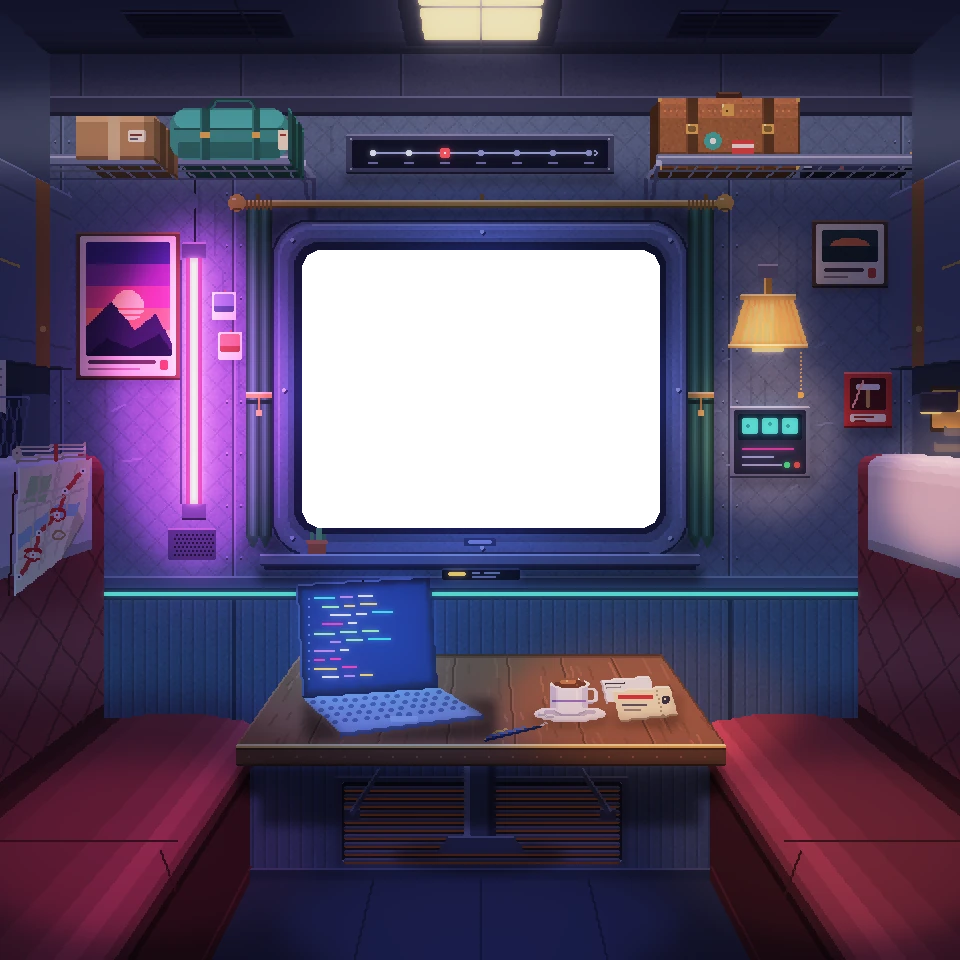
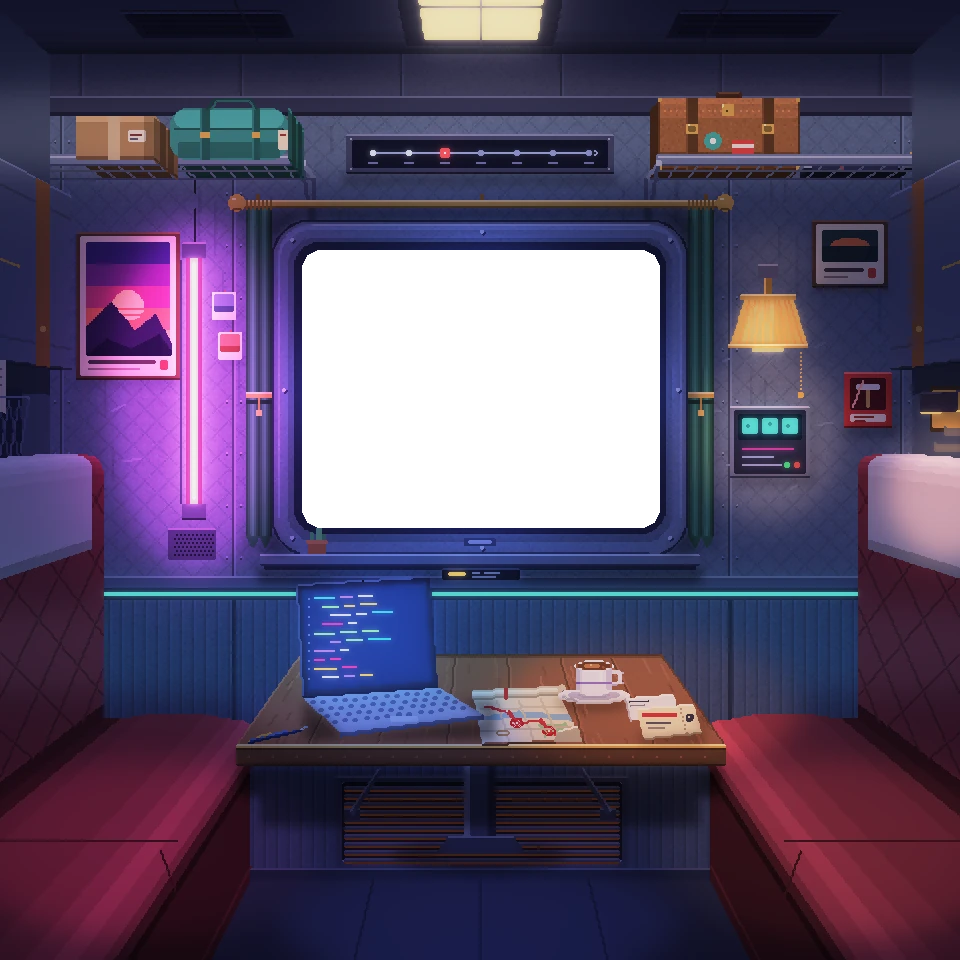
art(2.2): lay the map half open on the table, the rest still rolled
The far half stays rolled into a tube along the back edge and the near corner curls up. The cup moves to the back right and the pen to the left of the laptop, so the map's sprite stays clean.

Changed region(s): [[0.4688, 0.6875, 0.75, 0.7812], [0.0, 0.4375, 0.0938, 0.625], [0.25, 0.75, 0.3125, 0.7812]]

diff --git a/src/scene/geometry.gen.ts b/src/scene/geometry.gen.ts
@@ -30,7 +30,7 @@ export const CAMERA = { x: 240, y: 209.808 };
 export const OBJECTS: Record<string, ObjectGeometry> = {
   cover: { zone: [142, 116, 338, 272], light: { x: 240, y: 194, rx: 108, ry: 84 } },
   projects: { zone: [137, 279, 252, 376], light: { x: 195, y: 328, rx: 62, ry: 52 }, box: { x: 148, y: 288, w: 94, h: 81 }, sprite: '/assets/obj-projects.webp' },
-  about: { zone: [296, 335, 348, 369], light: { x: 322, y: 352, rx: 30, ry: 20 }, box: { x: 300, y: 338, w: 39, h: 23 }, sprite: '/assets/obj-about.webp' },
+  about: { zone: [308, 344, 360, 378], light: { x: 334, y: 361, rx: 30, ry: 20 }, box: { x: 312, y: 347, w: 39, h: 23 }, sprite: '/assets/obj-about.webp' },
   stack: { zone: [318.7565, 36.95, 409.9482, 92.9085], light: { x: 364.3523, y: 67.0018, rx: 49.7409, ry: 29.0155 }, box: { x: 325, y: 46, w: 75, h: 44 }, sprite: '/assets/obj-stack.webp', front: { x: 322, y: 77, w: 85, h: 17, sprite: '/assets/obj-stack-front.webp' } },
-  journey: { zone: [0, 215, 52, 304], light: { x: 26, y: 259, rx: 24, ry: 40 }, box: { x: 6, y: 221, w: 40, h: 77 }, sprite: '/assets/obj-journey.webp' },
+  journey: { zone: [230, 336, 296, 378], light: { x: 263, y: 357, rx: 31, ry: 18 }, box: { x: 236, y: 342, w: 55, h: 30 }, sprite: '/assets/obj-journey.webp' },
 };

diff --git a/src/scene/geometry.gen.css b/src/scene/geometry.gen.css
@@ -9,7 +9,7 @@
   transform-origin: 50% 43.71%;
 }
 .steam {
-  left: 58.9292%; top: 69.775%;
+  left: 61.4625%; top: 67.9542%;
 }
 .cur {
   left: 40.8333%; top: 69.1667%;

diff --git a/tools/art/room.py b/tools/art/room.py
@@ -38,11 +38,11 @@ AMBER = (255, 206, 110)
 # object moves its focus target with it.
 OBJECTS = {
     'projects': dict(at=(148, 288), zone=(-11, -9, 104, 88), light=(47, 40, 62, 52)),
-    'about': dict(at=(306, 343), zone=(-10, -8, 42, 26), light=(16, 9, 30, 20)),
+    'about': dict(at=(318, 352), zone=(-10, -8, 42, 26), light=(16, 9, 30, 20)),
     'stack': dict(at=(326, 52), zone=(-10, -9, 78, 45), light=(34, 20, 48, 28), on_rack=1),
-    # the map, flung half unrolled over the left-hand backrest; the line
-    # display on the wall is the railway's, and only a decoy
-    'journey': dict(at=(6, 221), zone=(-6, -6, 46, 83), light=(20, 38, 24, 40)),
+    # the map, half open on the table; the line display on the wall is the
+    # railway's, and only a decoy
+    'journey': dict(at=(236, 342), zone=(-6, -6, 60, 36), light=(27, 15, 31, 18)),
 }
 
 # The window opening (x y w h) and its corner radius. The page lays .win over it:
@@ -103,7 +103,7 @@ def P(X, Y, Z):
 
 # The cup and saucer were drawn too large for the laptop beside them: they are
 # drawn at COFFEE_SCALE about the middle of the saucer's foot.
-COFFEE_AT = (281, 356)
+COFFEE_AT = (313, 333)
 COFFEE_SCALE = 0.62
 
 # Small animated things the page lays over the art, each x y relative to what
@@ -977,67 +977,52 @@ BACK_ROLL = [
 BACK_ROLL_SHADES = [0.9, 1.04, 1.22, 1.38, 1.26]
 
 
-def journey_map(g):
-    """The journey object: a paper map flung over the top of the left-hand
-    backrest by the window, half unrolled. The roll lies on the backrest's top;
-    the open sheet hangs down its face, askew, creased, one corner folded over
-    and a coffee ring on it. Drawn on the backrest's plane, so it hangs in the
-    room's perspective. It sits at the height of the window, where a wide
-    screen's framing still shows it."""
+def table_map(g, T):
+    """The journey object: a paper map lying half open on the table between
+    the laptop and the cup. The far half is still rolled into a tube along its
+    back edge; the near corner on the right has curled up and shows the paper's
+    back. T(u, v) is a point on the table top, u across, v from back to front."""
     o = g.at(0, 0, 'journey')
-    X = -(BACK_FACE - 0.006)
-    q = lambda z, y: ri(P(X, y, z))
-    # the sheet's corners (z, y): top edge along the roll, bottom edge sagging
-    # lower at the near side, and the far bottom corner folded up
-    tl, tr = (1.93, BACK_TOP - 0.004), (1.63, BACK_TOP - 0.01)
-    br, bl = (1.61, BACK_TOP - 0.29), (1.80, BACK_TOP - 0.24)
-    fold = (1.89, BACK_TOP - 0.17)
-    sheet = [tl, tr, br, bl, fold]
     paper = (232, 222, 196)
-    o.poly([q(*c) for c in sheet], paper)
-    # the corner folded over: the paper's back, a shade darker, with its crease
-    flap = [bl, fold, (1.86, BACK_TOP - 0.13)]
-    o.poly([q(*c) for c in flap], mul(paper, 0.82))
-    o.line([q(*bl), q(*fold)], mul(paper, 0.62))
+    # the flat sheet, a little askew
+    A, B, C, D = T(0.487, 0.5), T(0.69, 0.46), T(0.708, 0.95), T(0.507, 0.98)
+    o.poly([A, B, C, D], paper)
+    g.line([(D[0], D[1] + 1), (C[0], C[1] + 1)], mul(WOOD, 0.55))  # its shadow on the wood
 
     def at(u, v):
-        """A point on the sheet: u across from far (0) to near (1), v down."""
-        top = (tl[0] + (tr[0] - tl[0]) * u, tl[1] + (tr[1] - tl[1]) * u)
-        bot = (bl[0] + (br[0] - bl[0]) * u, bl[1] + (br[1] - bl[1]) * u)
-        return q(top[0] + (bot[0] - top[0]) * v, top[1] + (bot[1] - top[1]) * v)
+        top = lerp(A, B, u)
+        bot = lerp(D, C, u)
+        return ri(lerp(top, bot, v))
 
-    # printed: a river across it, a park, streets, and the line with stations
-    o.poly([at(0.0, 0.48), at(0.4, 0.4), at(1.0, 0.55), at(1.0, 0.66), at(0.45, 0.52), at(0.0, 0.6)], (150, 186, 210))
-    o.poly([at(0.58, 0.1), at(0.86, 0.08), at(0.9, 0.3), at(0.62, 0.32)], (166, 200, 148))
-    for u in (0.22, 0.47, 0.74):
-        o.line([at(u, 0.04), at(u + 0.03, 0.9)], (210, 200, 176))
-    for v in (0.24, 0.72):
-        o.line([at(0.03, v), at(0.97, v + 0.03)], (210, 200, 176))
-    route = [at(0.08, 0.12), at(0.3, 0.3), at(0.36, 0.5), at(0.66, 0.6), at(0.7, 0.78), at(0.92, 0.88)]
+    # printed: a river, a park, streets, the line and its stations
+    o.poly([at(0.0, 0.38), at(0.45, 0.3), at(1.0, 0.42), at(1.0, 0.54), at(0.5, 0.42), at(0.0, 0.5)], (150, 186, 210))
+    o.poly([at(0.62, 0.62), at(0.92, 0.6), at(0.94, 0.86), at(0.64, 0.88)], (166, 200, 148))
+    for u in (0.25, 0.5, 0.76):
+        o.line([at(u, 0.06), at(u + 0.02, 0.95)], (210, 200, 176))
+    for v in (0.22, 0.7):
+        o.line([at(0.03, v), at(0.97, v)], (210, 200, 176))
+    route = [at(0.1, 0.12), at(0.32, 0.3), at(0.4, 0.55), at(0.66, 0.5), at(0.72, 0.76), at(0.9, 0.9)]
     o.line(route, (204, 60, 66), width=2)
     for k, (sx, sy) in enumerate(route):
-        o.rect(sx - 1, sy - 1, 3, 3, (250, 244, 226))
-        o.px(sx, sy, (204, 60, 66) if k in (2, 4) else (60, 70, 96))
+        o.px(sx, sy, (250, 244, 226))
     for sx, sy in (route[2], route[4]):  # circled, and circled again
-        o.line([(sx - 4, sy - 2), (sx + 3, sy - 3), (sx + 4, sy + 1), (sx, sy + 3), (sx - 4, sy + 1), (sx - 3, sy - 3)], (196, 36, 48))
-        o.line([(sx - 3, sy - 3), (sx + 4, sy - 2)], (196, 36, 48))
-    # handled paper: two creases from being folded, a coffee ring, a torn notch
-    o.line([at(0.0, 0.33), at(1.0, 0.36)], mul(paper, 0.86))
-    o.line([at(0.5, 0.0), at(0.53, 0.95)], mul(paper, 0.88))
-    cx, cy = at(0.25, 0.72)
-    o.line([(cx - 3, cy), (cx - 2, cy - 2), (cx + 1, cy - 2), (cx + 3, cy), (cx + 1, cy + 2), (cx - 2, cy + 2), (cx - 3, cy)], (176, 140, 100))
-    nx, ny = at(1.0, 0.18)
-    o.rect(nx - 1, ny, 2, 2, mul(SEAT, 0.8))
-    # the near edge catches the light, and casts a little shadow on the backrest
-    o.line([q(*tr), q(*br)], (252, 248, 232))
-    g.line([ri(P(X - 0.004, tr[1] - 0.01, tr[0] - 0.012)), ri(P(X - 0.004, br[1], br[0] - 0.012))], mul(SEAT, 0.42))
-    # the rest of it, still rolled, lying along the top of the backrest
-    for dy, c in ((0.0, (172, 162, 142)), (0.012, (214, 204, 180)), (0.024, (242, 236, 214)), (0.034, (206, 196, 172))):
-        o.line([ri(P(-(BACK_FACE + 0.02), BACK_TOP + dy, 1.95)), ri(P(-(BACK_FACE + 0.02), BACK_TOP + dy, 1.66))], c, width=2)
-    ex, ey = ri(P(-(BACK_FACE + 0.02), BACK_TOP + 0.018, 1.66))
-    o.ellipse(ex - 2, ey - 3, 5, 6, (214, 204, 180))
-    o.px(ex, ey - 1, (120, 110, 96))
-    o.line([ri(P(-(BACK_FACE + 0.02), BACK_TOP - 0.002, 1.82)), ri(P(-(BACK_FACE + 0.02), BACK_TOP + 0.038, 1.82))], (190, 60, 62), width=2)
+        o.line([(sx - 3, sy - 1), (sx + 2, sy - 2), (sx + 3, sy + 1), (sx, sy + 2), (sx - 3, sy + 1), (sx - 2, sy - 2)], (196, 36, 48))
+    # a crease from being folded, and a coffee ring
+    o.line([at(0.0, 0.72), at(1.0, 0.68)], mul(paper, 0.86))
+    rx, ry = at(0.22, 0.8)
+    o.line([(rx - 3, ry), (rx - 1, ry - 1), (rx + 2, ry - 1), (rx + 3, ry), (rx + 1, ry + 1), (rx - 2, ry + 1), (rx - 3, ry)], (176, 140, 100))
+    # the near right corner curling up off the table: the paper's back, and
+    # the light along its lip
+    curl = [at(0.72, 1.0), C, (C[0] - 2, C[1] - 7), (at(0.8, 0.86)[0], at(0.8, 0.86)[1] - 2)]
+    o.poly([ri(c) for c in curl], mul(paper, 0.8))
+    o.line([ri(curl[2]), ri(curl[3])], (252, 248, 232))
+    # the rest, rolled into a tube along the back edge, with a rubber band
+    for dy, c in ((0, (168, 158, 138)), (-1, (204, 194, 170)), (-2, (232, 226, 204)), (-3, (246, 240, 220)), (-4, (214, 204, 180))):
+        o.line([(A[0] - 1, A[1] + dy), (B[0] + 1, B[1] + dy)], c)
+    o.ellipse(B[0], B[1] - 5, 4, 6, (214, 204, 180))
+    o.px(B[0] + 2, B[1] - 2, (120, 110, 96))
+    mx, my = lerp(A, B, 0.35)
+    o.rect(round(mx), round(my) - 5, 2, 6, (190, 60, 62))
 
 
 def bench(g, s):
@@ -1163,6 +1148,8 @@ def table(g, rnd):
     g.rect(118, 382, 245, 1, mul(WOOD, 0.36))
     for x in range(124, 360, 12):
         g.px(x, 378, mul(WOOD, 0.9))
+    T = lambda u, v: lerp(lerp(BL, BR, u), lerp(FL, FR, u), v)
+    table_map(g, T)
     # ---- laptop (the projects object)
     o = place(g, 'projects', (148, 288))
     o.shadow(152, 350, 96, 20, 0.5)
@@ -1269,13 +1256,13 @@ def table(g, rnd):
     o.rect(341, 349, 4, 4, (60, 56, 76))
     o.px(342, 350, (240, 228, 198))
     o.px(344, 352, (240, 228, 198))
-    # ---- pen, about 14 cm against the laptop
-    g.line([(242, 369), (270, 362)], (40, 60, 120), width=2)
-    g.line([(242, 370), (270, 363)], (24, 36, 80))
-    g.line([(243, 368), (262, 363)], (90, 110, 170))
-    g.line([(270, 362), (273, 361)], (200, 200, 214))
-    g.line([(246, 366), (253, 364)], BRASS)
-    g.px(242, 369, BRASS)
+    # ---- pen, about 14 cm against the laptop, left of it
+    g.line([(124, 370), (150, 364)], (40, 60, 120), width=2)
+    g.line([(124, 371), (150, 365)], (24, 36, 80))
+    g.line([(125, 369), (143, 365)], (90, 110, 170))
+    g.line([(150, 364), (153, 363)], (200, 200, 214))
+    g.line([(128, 368), (135, 366)], BRASS)
+    g.px(124, 370, BRASS)
 
 
 # ------------------------------------------------------------------ Foreground
@@ -1458,7 +1445,6 @@ def build_room(seed=21, over_rack=True):
     side_wall(g, 1)
     bench(g, -1)
     bench(g, 1)
-    journey_map(g)
     table(g, rng('table'))
     # Overall lighting: the ceiling strip washing the walls, cold light from outside
     g.light(-120, 40, 720, 50, (255, 214, 160), 0.26)

diff --git a/docs/13-art-review.md b/docs/13-art-review.md
@@ -863,7 +863,7 @@ something else.
 | 1     | 1.5  | done    | ceiling cove at the wall, vents within the strip of ceiling in view, light on the ceiling                                                                                                                                                  |
 | 1     | 1.6  | done    | the table hinged to the wall: struts under it to plates on the wall, and the wall under it in shadow                                                                                                                                       |
 | 2     | 2.1  | review  | cup and saucer drawn at 0.62 about the saucer's foot; pen lengthened to about 14 cm; steam and cursor positions generated                                                                                                                  |
-| 2     | 2.2  | review  | journey is a map flung half unrolled over the left backrest by the window, askew, creased, a corner folded, a coffee ring; at window height so a wide screen shows it; the line display is a decoy with no hotspot; the rack keeps its box |
+| 2     | 2.2  | review  | journey is a map lying half open on the table between the laptop and the cup, askew, creased, a coffee ring, the far half still rolled into a tube with a rubber band, the near corner curling up; the cup moves to the back right and the pen to the left of the laptop so nothing overlaps it; the line display is a decoy with no hotspot; the rack keeps its box |
 | 2     | 2.3  | review  | business card behind the ticket, peeking out on the table side; ticket moved in from the edge; reserved: notebook at the table's front-left corner, hobby object in place of the holdall                                                   |
 | 3     | 3.1  | pending |                                                                                                                                                                                                                                            |
 | 3     | 3.2  | pending |                                                                                                                                                                                                                                            |

diff --git a/docs/12-script.md b/docs/12-script.md
@@ -108,7 +108,7 @@ a professional's relief at being handed the answer.
 
 ## Scene 4 — 卷起来的线路图 (journey)
 
-**Camera:** carry, off the left-hand backrest, where it hangs half unrolled.
+**Camera:** carry, off the table, where it lies half open beside the laptop.
 **Scroll:** unrolls it the rest of the way. Stations
 appear in order as it opens; each is `[经历]`.
 
